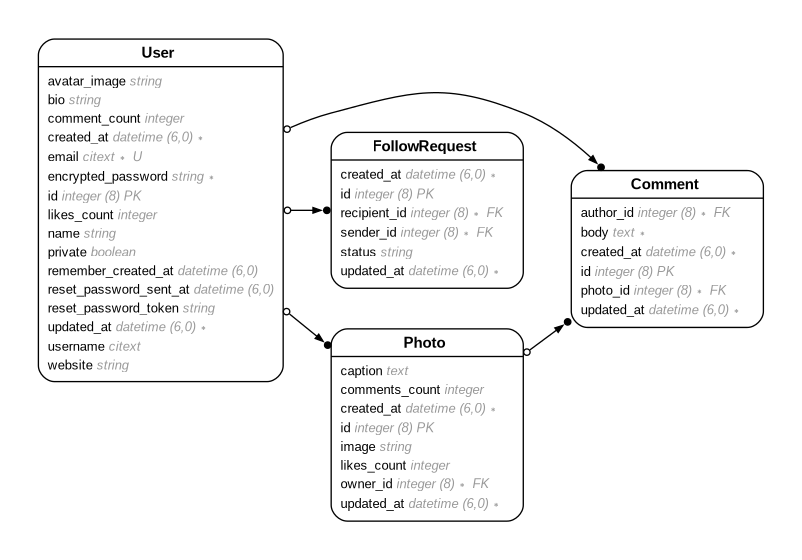
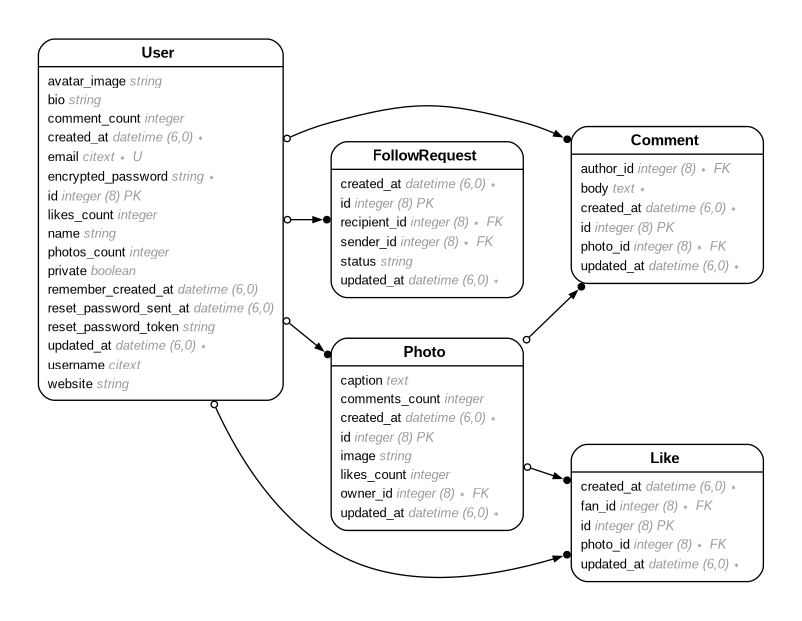
adding counter_cache to models and adding photo_count to users.

diff --git a/db/schema.rb b/db/schema.rb
@@ -10,7 +10,7 @@
 #
 # It's strongly recommended that you check this file into your version control system.
 
-ActiveRecord::Schema[8.0].define(version: 2025_08_06_150247) do
+ActiveRecord::Schema[8.0].define(version: 2025_08_06_195709) do
   # These are extensions that must be enabled in order to support this database
   enable_extension "citext"
   enable_extension "pg_catalog.plpgsql"
@@ -40,6 +40,15 @@ ActiveRecord::Schema[8.0].define(version: 2025_08_06_150247) do
     t.datetime "updated_at", null: false
     t.index ["recipient_id"], name: "index_follow_requests_on_recipient_id"
     t.index ["sender_id"], name: "index_follow_requests_on_sender_id"
+  end
+
+  create_table "likes", force: :cascade do |t|
+    t.bigint "fan_id", null: false
+    t.bigint "photo_id", null: false
+    t.datetime "created_at", null: false
+    t.datetime "updated_at", null: false
+    t.index ["fan_id"], name: "index_likes_on_fan_id"
+    t.index ["photo_id"], name: "index_likes_on_photo_id"
   end
 
   create_table "movies", force: :cascade do |t|
@@ -218,6 +227,7 @@ ActiveRecord::Schema[8.0].define(version: 2025_08_06_150247) do
     t.integer "comment_count", default: 0
     t.datetime "created_at", null: false
     t.datetime "updated_at", null: false
+    t.integer "photos_count", default: 0
     t.index ["email"], name: "index_users_on_email", unique: true
     t.index ["reset_password_token"], name: "index_users_on_reset_password_token", unique: true
     t.index ["username"], name: "index_users_on_username", unique: true
@@ -227,6 +237,8 @@ ActiveRecord::Schema[8.0].define(version: 2025_08_06_150247) do
   add_foreign_key "comments", "users", column: "author_id"
   add_foreign_key "follow_requests", "users", column: "recipient_id"
   add_foreign_key "follow_requests", "users", column: "sender_id"
+  add_foreign_key "likes", "photos"
+  add_foreign_key "likes", "users", column: "fan_id"
   add_foreign_key "photos", "users", column: "owner_id"
   add_foreign_key "solid_queue_blocked_executions", "solid_queue_jobs", column: "job_id", on_delete: :cascade
   add_foreign_key "solid_queue_claimed_executions", "solid_queue_jobs", column: "job_id", on_delete: :cascade

diff --git a/spec/models/user_spec.rb b/spec/models/user_spec.rb
@@ -3,20 +3,19 @@
 # Table name: users
 #
 #  id                     :bigint           not null, primary key
-#  avatar_image           :string           default("avatar_placeholder.png")
+#  avatar_image           :string
 #  bio                    :string
-#  comments_count         :integer          default(0)
+#  comment_count          :integer          default(0)
 #  email                  :citext           default(""), not null
 #  encrypted_password     :string           default(""), not null
-#  integer                :integer          default(0)
 #  likes_count            :integer          default(0)
 #  name                   :string
 #  photos_count           :integer          default(0)
-#  private                :boolean          default(TRUE)
+#  private                :boolean
 #  remember_created_at    :datetime
 #  reset_password_sent_at :datetime
 #  reset_password_token   :string
-#  username               :citext           not null
+#  username               :citext
 #  website                :string
 #  created_at             :datetime         not null
 #  updated_at             :datetime         not null

diff --git a/app/models/like.rb b/app/models/like.rb
@@ -1,4 +1,24 @@
+# == Schema Information
+#
+# Table name: likes
+#
+#  id         :bigint           not null, primary key
+#  created_at :datetime         not null
+#  updated_at :datetime         not null
+#  fan_id     :bigint           not null
+#  photo_id   :bigint           not null
+#
+# Indexes
+#
+#  index_likes_on_fan_id    (fan_id)
+#  index_likes_on_photo_id  (photo_id)
+#
+# Foreign Keys
+#
+#  fk_rails_...  (fan_id => users.id)
+#  fk_rails_...  (photo_id => photos.id)
+#
 class Like < ApplicationRecord
-  belongs_to :fan, class_name: "User"
-  belongs_to :photo
+  belongs_to :fan, class_name: "User", counter_cache: true
+  belongs_to :photo, counter_cache: true
 end

diff --git a/spec/models/comment_spec.rb b/spec/models/comment_spec.rb
@@ -3,7 +3,7 @@
 # Table name: comments
 #
 #  id         :bigint           not null, primary key
-#  body       :text
+#  body       :text             not null
 #  created_at :datetime         not null
 #  updated_at :datetime         not null
 #  author_id  :bigint           not null
@@ -11,8 +11,7 @@
 #
 # Indexes
 #
-#  index_comments_on_author_id  (author_id)
-#  index_comments_on_photo_id   (photo_id)
+#  index_comments_on_photo_id  (photo_id)
 #
 # Foreign Keys
 #

diff --git a/app/models/user.rb b/app/models/user.rb
@@ -10,6 +10,7 @@
 #  encrypted_password     :string           default(""), not null
 #  likes_count            :integer          default(0)
 #  name                   :string
+#  photos_count           :integer          default(0)
 #  private                :boolean
 #  remember_created_at    :datetime
 #  reset_password_sent_at :datetime

diff --git a/app/models/comment.rb b/app/models/comment.rb
@@ -19,6 +19,6 @@
 #  fk_rails_...  (photo_id => photos.id)
 #
 class Comment < ApplicationRecord
-  belongs_to :author, class_name: "User"
-  belongs_to :photo
+  belongs_to :author, class_name: "User", counter_cache: true
+  belongs_to :photo, counter_cache: true
 end

diff --git a/app/models/photo.rb b/app/models/photo.rb
@@ -20,6 +20,6 @@
 #  fk_rails_...  (owner_id => users.id)
 #
 class Photo < ApplicationRecord
-  belongs_to :owner, class_name: "User"
+  belongs_to :owner, class_name: "User", counter_cache: true
   has_many :comments
 end

diff --git a/db/migrate/20250806195709_add_photos_count_to_users.rb b/db/migrate/20250806195709_add_photos_count_to_users.rb
@@ -1,0 +1,5 @@
+class AddPhotosCountToUsers < ActiveRecord::Migration[8.0]
+  def change
+    add_column :users, :photos_count, :integer, default: 0
+  end
+end
